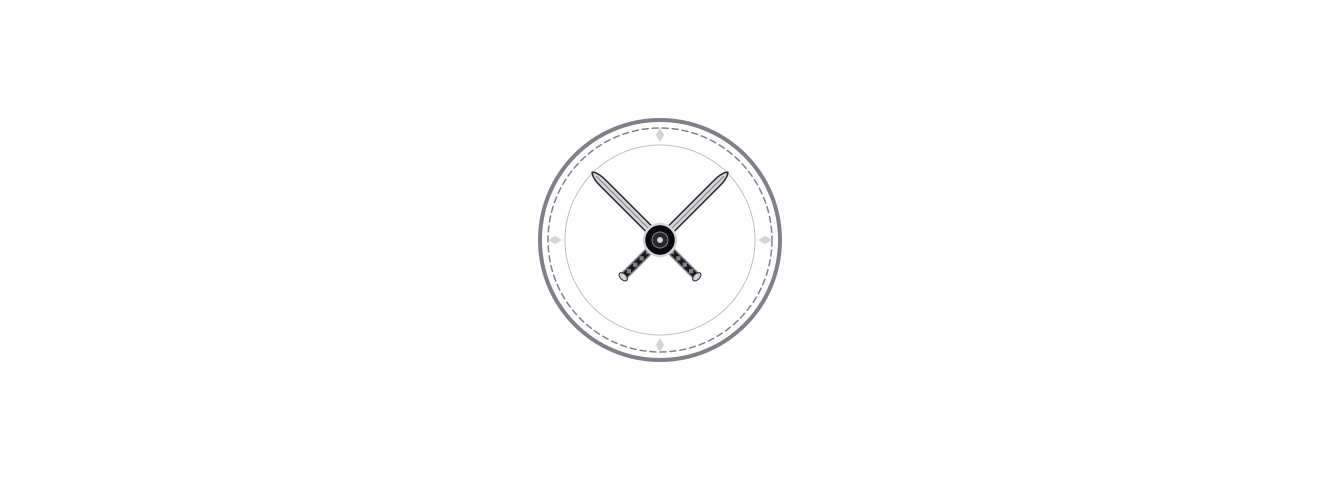
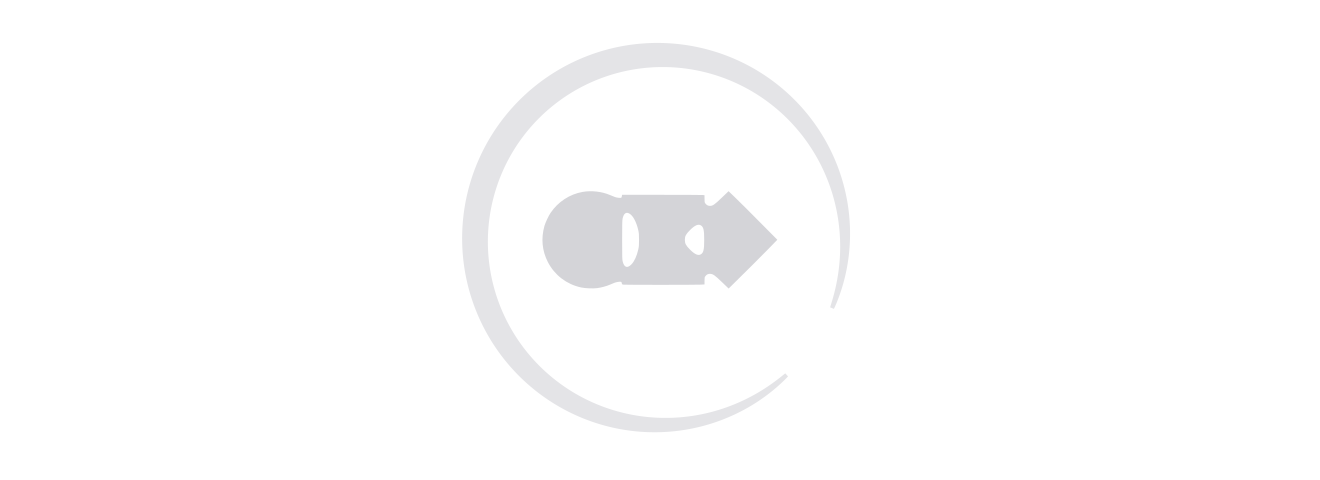
feat: adopt Japanese Enso Omarchy emblem for boot and login splash

Changed region(s): [[0.3417, 0.0938, 0.6523, 0.9062], [0.4348, 0.6562, 0.5591, 0.75], [0.5591, 0.7812, 0.5902, 0.8438]]

diff --git a/src/login.py b/src/login.py
@@ -1,5 +1,6 @@
 #!/usr/bin/env python3
 """Build the Samurai SDDM artwork and layout without starting an authentication session."""
+import math
 from pathlib import Path
 import shutil
 import subprocess
@@ -8,34 +9,34 @@ import tomllib
 
 ROOT = Path(__file__).resolve().parent.parent
 
+OMA_PATH = '''M1620 3370 c-401 -71 -758 -305 -989 -648 -62 -93 -156 -293 -186 -397 -109 -385 -74 -763 102 -1108 208 -408 579 -692 1030 -788 125 -27 357 -36 487 -20 131 17 293 61 406 111 134 59 160 68 236 80 93 15 111 9 119 -39 6 -38 7 -38 58 -45 69 -8 2231 -8 2375 1 l112 6 0 109 c0 102 2 112 26 144 44 57 86 77 154 72 86 -6 139 -44 365 -262 l197 -189 141 139 c390 383 846 837 1088 1085 l269 277 -529 533 c-290 294 -628 630 -750 748 l-221 213 -208 -199 c-228 -219 -278 -253 -365 -253 -58 0 -102 23 -141 74 -24 33 -26 42 -26 144 l0 109 -46 7 c-26 3 -597 6 -1269 6 l-1223 0 -6 -44 c-8 -53 -19 -57 -115 -45 -70 8 -101 19 -250 83 -248 107 -569 144 -841 96z m1451 -675 c107 -70 207 -264 261 -506 20 -89 23 -131 23 -294 0 -163 -3 -205 -23 -294 -46 -206 -121 -369 -212 -462 -124 -127 -221 -95 -267 86 -16 63 -18 126 -18 665 0 438 3 611 13 654 35 169 115 223 223 151z m2187 -355 c81 -50 102 -141 102 -445 0 -304 -21 -395 -102 -445 -81 -49 -185 -5 -334 144 -129 130 -159 186 -159 301 0 115 30 171 159 301 149 149 253 193 334 144z'''
 
-def samurai_kamon(cx, cy, radius, stroke, fill):
-    parts = []
-    r_outer = radius
-    r_inner = radius - 6
-    parts.append(f'<g stroke="{stroke}" fill="none" stroke-linecap="round" stroke-linejoin="round">')
-    parts.append(f'<circle cx="{cx}" cy="{cy}" r="{r_outer}" stroke-width="2.5"/>')
-    parts.append(f'<circle cx="{cx}" cy="{cy}" r="{r_inner}" stroke-width="1.2" stroke-dasharray="5 3"/>')
-    for angle in [-45, 45]:
-        parts.append(f'<g transform="translate({cx},{cy}) rotate({angle})">')
-        # Blade
-        parts.append(f'<path d="M -3, -8 L -3, -60 Q -3, -68 0, -72 Q 3, -68 3, -60 L 3, -8 Z" fill="{fill}" stroke="{stroke}" stroke-width="1.2"/>')
-        parts.append(f'<line x1="0" y1="-10" x2="0" y2="-66" stroke="{stroke}" stroke-width="0.8"/>')
-        # Tsuba
-        parts.append(f'<ellipse cx="0" cy="-5" rx="10" ry="3.5" fill="{stroke}" stroke="{fill}" stroke-width="1"/>')
-        # Tsuka
-        parts.append(f'<rect x="-2.5" y="-1.5" width="5" height="38" rx="1.5" fill="{stroke}"/>')
-        # Kashira
-        parts.append(f'<ellipse cx="0" cy="38" rx="3.5" ry="2" fill="{fill}" stroke="{stroke}" stroke-width="0.8"/>')
-        parts.append('</g>')
-    parts.append(f'<circle cx="{cx}" cy="{cy}" r="11" fill="{stroke}" stroke="{fill}" stroke-width="1.5"/>')
-    parts.append(f'<circle cx="{cx}" cy="{cy}" r="4" fill="{fill}" stroke="none"/>')
-    for deg in [0, 90, 180, 270]:
-        parts.append(f'<g transform="translate({cx},{cy}) rotate({deg})">')
-        parts.append(f'<polygon points="0,-72 3,-77 0,-82 -3,-77" fill="{fill}" stroke="none"/>')
-        parts.append('</g>')
-    parts.append('</g>')
-    return ''.join(parts)
+
+def enso_path(cx, cy, radius, stroke_scale=1.0):
+    steps = 400
+    outer, inner = [], []
+    for i in range(steps + 1):
+        t = i / steps
+        theta = 0.26 * math.pi + t * 1.86 * math.pi
+        w = (4 + 22 * (math.sin(t * math.pi) ** 0.85)) * stroke_scale
+        ro = radius + w / 2
+        ri = radius - w / 2
+        outer.append(f'{cx + ro * math.cos(theta):.2f},{cy + ro * math.sin(theta):.2f}')
+        inner.append(f'{cx + ri * math.cos(theta):.2f},{cy + ri * math.sin(theta):.2f}')
+    pts = outer + inner[::-1]
+    return 'M ' + ' L '.join(pts) + ' Z'
+
+
+def enso_omarchy_svg(cx, cy, enso_r, oma_w, enso_fill, oma_fill):
+    s = oma_w / 800.0
+    oma_h = 378.0 * s
+    tx = cx - oma_w / 2.0
+    ty = cy + oma_h / 2.0
+    enso_d = enso_path(cx, cy, enso_r, stroke_scale=enso_r / 180.0)
+    return (f'<path d="{enso_d}" fill="{enso_fill}"/>'
+            f'<g transform="translate({tx:.2f},{ty:.2f}) scale({0.1 * s:.5f},{-0.1 * s:.5f})">'
+            f'<path d="{OMA_PATH}" fill="{oma_fill}"/>'
+            f'</g>')
 
 
 def build(destination):
@@ -51,10 +52,11 @@ def build(destination):
         subprocess.run(['magick', str(destination/name), '-channel', 'RGB',
                         '+level-colors', f'{colour},{colour}', str(destination/name)], check=True)
 
-    kamon = samurai_kamon(300, 110, 80, palette["line"], palette["foreground"])
+    logo_content = enso_omarchy_svg(300, 110, enso_r=78, oma_w=110,
+                                   enso_fill=palette['line'], oma_fill=palette['foreground'])
     logo = (f'<svg xmlns="http://www.w3.org/2000/svg" width="600" height="220" '
             f'viewBox="0 0 600 220">'
-            f'<g opacity="0.75">{kamon}</g></svg>')
+            f'<g opacity="0.85">{logo_content}</g></svg>')
     (destination/'logo.svg').write_text(logo)
     subprocess.run(['rsvg-convert', str(destination/'logo.svg'), '-o', str(destination/'logo.png')], check=True)
     (destination/'theme.conf').write_text('[General]\n')

diff --git a/README.md b/README.md
@@ -11,9 +11,9 @@ The monochromatic palette is tailored directly for the Samurai sumi-e artwork.
 
 | Wallpaper | Boot and disk-unlock screen |
 |---|---|
-| ![Samurai wallpaper](backgrounds/1-samurai.png) | ![Samurai Kamon splash](preview-unlock.png) |
+| ![Samurai wallpaper](backgrounds/1-samurai.png) | ![Samurai Ensō splash](preview-unlock.png) |
 
-Samurai features an ink-wash / sumi-e artwork paired with an authentic Japanese crossed-katana Kamon crest on `#09090B` obsidian ground.
+Samurai features an ink-wash / sumi-e artwork paired with an authentic Japanese Ensō Omarchy emblem on `#09090B` obsidian ground.
 
 ## Install
 
